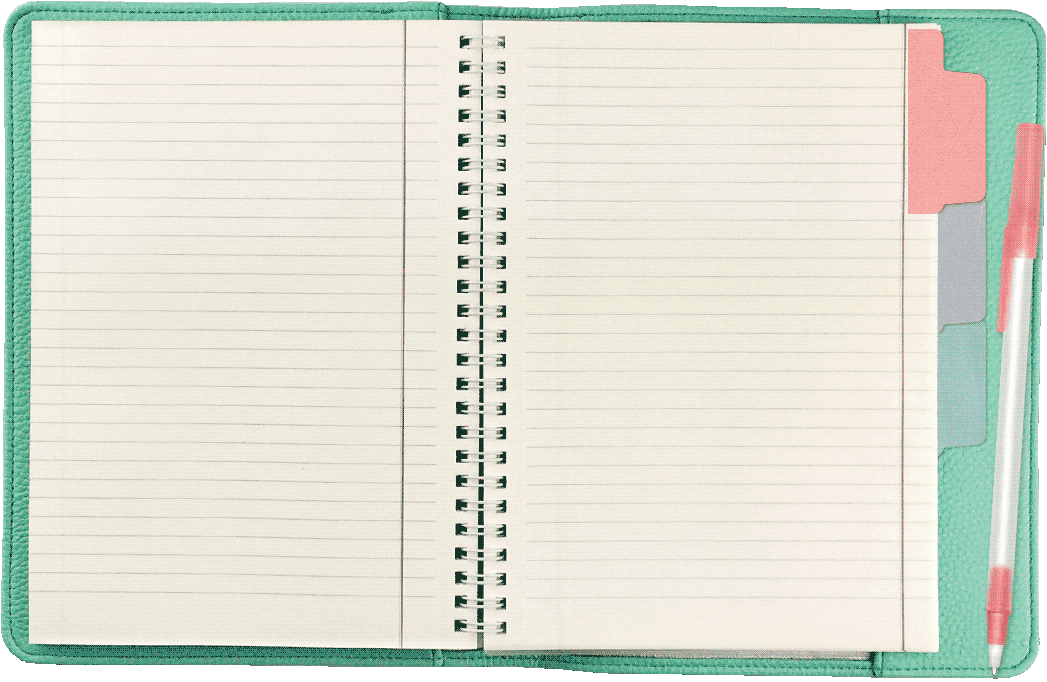
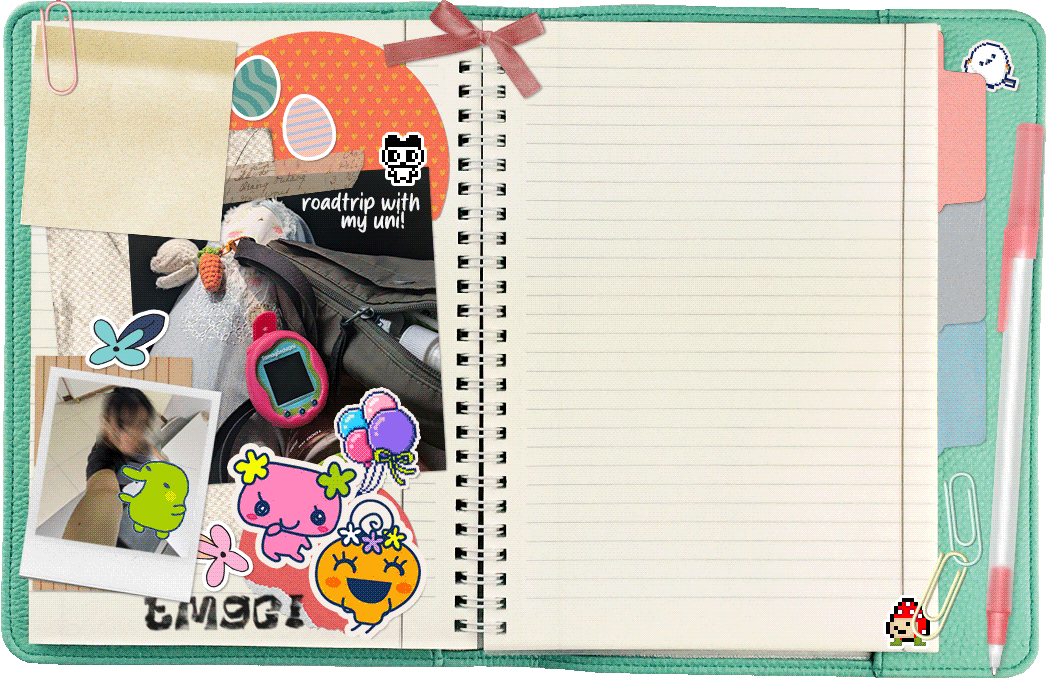
Upload tamagotchi shrine

diff --git a/precipice/tamagotchi/index.html b/precipice/tamagotchi/index.html
@@ -1,0 +1,105 @@
+<!DOCTYPE html>
+<html lang="en">
+  <head>
+    <meta charset="UTF-8">
+    <meta name="viewport" content="width=device-width, initial-scale=1.0">
+	<meta name="robots" content="noai, noimageai">
+	<title>a little tamagotchi shrine!</title>
+	
+	<link rel="apple-touch-icon" sizes="180x180" href="/precipice/favicon/apple-touch-icon.png">
+	<link rel="icon" type="image/png" sizes="32x32" href="/precipice/favicon/favicon-32x32.png">
+	<link rel="icon" type="image/png" sizes="16x16" href="/precipice/favicon/favicon-16x16.png">
+	<link rel="manifest" href="/site.webmanifest">
+	<link href="tama.css" rel="stylesheet" type="text/css" media="all">
+	
+	<style>
+	body { height: 95vh; color: #222; display: flex; flex-direction: column; justify-content: center; align-items: center; background-image:url(graph-paper.png); }
+	
+	.wrapper { position: relative; max-width:1047px; width: 100%; }
+	.decor-wrapper { position: absolute; width: 100%; height: 100%; overflow: hidden; z-index: -1; }
+	.sparkles { position: fixed; background-image:url(sparkles.png); width: 500px; height: 478px; filter: drop-shadow(rgba(0, 0, 0, 0.4) 1px 1px 1px); background-repeat: no-repeat; }
+	.rotated { rotate: 65deg; right: 0px; bottom: 0px; }
+	.background { filter: drop-shadow(rgba(0, 0, 0, 0.3) 4px 4px 4px); width: 100%; height: auto; }
+	
+	.nav {
+		font-family:'Sunbright', monospace;
+		font-size: 20pt;
+		text-align: center;
+		rotate: 90deg;
+		z-index:2;
+		position: absolute; 
+		left: 86.3%;
+		width: 11%;
+		height: 6%;
+		color: #000;
+		text-decoration:none;
+	}
+	
+	.nav:hover { text-shadow: 3px 3px 1px #fae79f; }
+	.nav-one:hover { rotate: 94deg; }
+	.nav-two:hover { rotate: 84deg; }
+	.nav-three:hover { rotate: 93deg; }
+	
+	.frame { box-sizing: border-box; position: absolute; left: 50%; top: 4.5%; width: 37.01%; height: 82%; z-index: 2; border: 0px; padding: 8px; }
+	.current { position: absolute; left: 50%; top: 87.5%; width: 35%; height: 5%; z-index: 2; display: flex; justify-content: space-evenly; align-items: center; }
+	.tablet-notice { display: none; width: 70%; background: #fff; padding: 3px; }
+	.mobile { display: none; }
+	
+	.post-it { box-sizing: border-box; position: absolute; left: 2.7%; top: 5%; width: 19%; height: 29%; rotate:4.7deg; z-index: 2; }
+	.post-text { height: 62%; scrollbar-width: thin; overflow-y:auto; padding: 10px; }
+	.post-it > h1 { font-family:'Sunbright',monospace; padding-right: 15px; margin-bottom: 5px; margin-top: 10px; border: 0px; }
+	
+	/* Use a media query to add a break point at 799px: */
+	@media screen and (max-width: 799px) {
+		.desktop { display: none; }
+		.mobile { display: unset; }
+		
+		.nav {
+		font-size: 17pt;
+		left: 81%;
+		width: 21%;
+		height: 5.9%;
+		color: #000;
+		text-decoration:none;
+		}
+		
+		.frame { left: 8%; top: 4.5%; width: 73.67%; height: 82%; }
+		.current { left: 8%; top: 87.5%; width: 68.5%; }
+	}
+	
+	/* Use a media query to target between 599px and 799px (tablets): */
+	@media screen and (min-width: 599px) and (max-width: 799px) {
+		.tablet-notice { display: unset; }
+	}
+	</style>
+	<script src="/scripts/frame-link.js"></script>
+  </head>
+  <body>
+    <div class="wrapper">
+	 <img src="notebook.png" class="background desktop" alt="">
+	 <img src="notebook-res2.png" class="background mobile" alt="">
+	 <div class="post-it desktop">
+	 <h1>updates!</h1>
+	 <div class="post-text">
+	 <b>24/09/03:</b> Added my tama info and published page :)<br>
+	 <b>24/09/03:</b> Created this new tamagotchi shrine!
+	 </div>
+	 </div>
+	 <iframe class="frame" src="home.html" id="mainframe" name="mainframe" title="main content"></iframe>
+	 <a href="owned.html" target="mainframe" class="nav nav-one" style="top: 17%;">owned ></a>
+	 <a href="raised.html" target="mainframe" class="nav nav-two" style="top: 35.7%;">raised!</a>
+	 <a href="wishlist.html" target="mainframe" class="nav nav-three" style="top: 53%;">wishlist</a>
+	 
+	 <div class="current">
+	 <b>currently playing:</b> tamagotchi uni
+	 </div>
+    </div>
+	<div class="tablet-notice">if you're currently using a tablet in portrait mode, I recommend turning it landscape wise to view this site!</div>
+ 
+    <div class="decor-wrapper">
+	 <div class="sparkles"></div>
+	 <div class="sparkles rotated"></div>
+   </div>
+  </body>
+</html>
+    

diff --git a/precipice/tamagotchi/owned.html b/precipice/tamagotchi/owned.html
@@ -1,0 +1,55 @@
+<!DOCTYPE html>
+<html lang="en">
+  <head>
+    <meta charset="UTF-8">
+    <meta name="viewport" content="width=device-width, initial-scale=1.0">
+	<meta name="robots" content="noai, noimageai">
+	<title>a little tamagotchi shrine! - owned</title>
+	
+	<link rel="apple-touch-icon" sizes="180x180" href="/precipice/favicon/apple-touch-icon.png">
+	<link rel="icon" type="image/png" sizes="32x32" href="/precipice/favicon/favicon-32x32.png">
+	<link rel="icon" type="image/png" sizes="16x16" href="/precipice/favicon/favicon-16x16.png">
+	<link rel="manifest" href="/site.webmanifest">
+	<link href="tama.css" rel="stylesheet" type="text/css" media="all">
+	
+  </head>
+  <body>
+	<section>
+	<h1>my devices</h1>
+	<h2 class="h2-first" id="five">connection v5</h2>
+	<div class="device left">
+	<img src="devices/v5.png" alt="My pink Familitchi device, yellowed with age.">
+	</div>
+	<p>My first Tamagotchi was a pink Connection V5 (Familitchi) that was gifted to me secondhand. This was maybe in 2010 or so, but I don't have an exact year I can pinpoint. I remember not knowing at all what a Tamagotchi was, but having been gifted it by my brother's ex-girlfriend on a trip out to the Science Centre, I was definitely excited. I can't remember if I'd taken it out to play then and there, or if I'd held on to it, high with anticipation, the entire train ride home.</p>
+	
+	<p>On this version, you'd raise a family of 3 children! You can choose to have one of them marry after they all grow into adults, and your choices for marriage as well as care will affect the "type" of family you have.</p>
+	
+	<p>The memory that stands out to me most about the Familitchi was being able to log onto the computer, go on the website (TAMA & Earth Expo) and play games to win points gotchi points or prizes. You'd get a code at the end of your time on the website and key it into the device to receive your winnings. But reading the wiki page on the local games available on the device also brings back memories of playing them!</p>
+	
+	<p>I don't recall when I'd stopped playing it, but I remember picking it back up maybe a few years ago? Not for long though, but I still kept the tamagotchi after all these years and I'm glad I did! I'd love to someday play it again, and maybe see if there are fan versions of TAMA & Earth Expo that I can still play on.</p>
+	
+	<h2 id="uni">uni</h2>
+	<div class="device right">
+	<img src="devices/uni.png" alt="My Tamagotchi uni in rose gold.">
+	</div>
+	<p>In August 2024, after rediscovering Tamagotchis (and realizing people still played it!), I bought my second device, the Uni. Prior to purchase I'd read up on the device and watched a few review videos about me. I'll be honest and say that what sold me on it was the walking feature! As someone who enjoys taking walks, I thought this was a lovely feature that meshed well with my own habits.</p>
+	
+	<p>What surprised me was how low-maintenance this device was, and as a working adult I do appreciate the sitter so much! Sometimes I'm just low on energy, or wish to focus on my work, and being able to put my tamas with a sitter is a well-appreciated feature.</p>
+	
+	<p>I also like being able to decorate the main room as well as dress up your tamas: it gives so much unique personality to them because of the number of permutations possible. Although some items and accessories are time-limited or region-exclusive, I actually find that I don't mind it that much, surprisingly! It's nice that you can still get some of the accessories through the Tama Fashion store on the TamaVerse.</p>
+	
+	<p>I do wish that there were more games to play on the device! I hope they someday add more in; although there are new activities through the Tama Arena or through DLCs, it would be nice to have some of them become a permanent game on the base device itself.</p>
+	
+	</section>
+	<div class="bottom-wrapper">
+	<a href="home.html" class="bottom-nav">← back</a>
+	<details><summary class="bottom-nav">★ subsections</summary>
+	<div class="bottom-det">
+	<a href="#five" class="bottom-nav">connection v5</a>
+	<a href="#uni" class="bottom-nav">uni</a>
+	</div>
+	</details>
+	<a href="#top" class="bottom-nav">↑ top</a>
+	</div>  </body>
+</html>
+    

diff --git a/precipice/tamagotchi/raised.html b/precipice/tamagotchi/raised.html
@@ -1,0 +1,86 @@
+<!DOCTYPE html>
+<html lang="en">
+  <head>
+    <meta charset="UTF-8">
+    <meta name="viewport" content="width=device-width, initial-scale=1.0">
+	<meta name="robots" content="noai, noimageai">
+	<title>a little tamagotchi shrine! - raised</title>
+	
+	<link rel="apple-touch-icon" sizes="180x180" href="/precipice/favicon/apple-touch-icon.png">
+	<link rel="icon" type="image/png" sizes="32x32" href="/precipice/favicon/favicon-32x32.png">
+	<link rel="icon" type="image/png" sizes="16x16" href="/precipice/favicon/favicon-16x16.png">
+	<link rel="manifest" href="/site.webmanifest">
+	<link href="tama.css" rel="stylesheet" type="text/css" media="all">
+	
+  </head>
+  <body>
+	<section>
+	<h1>tamas I've raised</h1>
+	<h2 class="h2-first" id="uni">uni</h2>
+	<p>These are the sprites of all the characters I've raised on my uni! My goal is to collect all possible characters, including those in the DLCs at some stage.</p>
+	<div class="sprites-wrapper">
+	<div>
+	<h3>Baby</h3>
+		<img class="sprites" src="tamas/NiinitchiUni.png" alt="Niinitchi" title="Niinitchi">
+		<img class="sprites" src="tamas/YooyutchiUni.png" alt="Yooyutchi" title="Yooyutchi">
+	</div>
+	<div>
+	<h3>Child</h3>
+		<img class="sprites" src="tamas/LionetchiUni.png" alt="Lionetchi" title="Lionetchi">
+		<img class="sprites" src="tamas/WelcotchiUni.png" alt="Welcotchi" title="Welcotchi">
+	</div>
+	<div>
+	<h3>Teens</h3>
+		<img class="sprites" src="tamas/LabilatchiUni.png" alt="Labilatchi" title=="Labilatchi">
+		<img class="sprites" src="tamas/CurltchiUni.png" alt="Curltchi" title="Curltchi">
+	</div>
+	<div>
+	<h3>Adults</h3>
+		<img class="sprites" src="tamas/KikitchiUni.png" alt="Kikitchi" title="Kikitchi">
+		<img class="sprites" src="tamas/NeliatchiUni.png" alt="Neliatchi" title="Neliatchi">
+	</div>
+	</div>
+	<p>On the Uni, each tama also comes with a personality as well as the ability to accessorize them. This allows for a much more unique range of tamas to each player. You can see each of my past tamas and their details under the read more.</p>
+	
+	<details><summary>Read more!</summary>
+	
+	<div class="tama-listing">
+	  <img class="sprites" src="tamas/adult-Neliatchi.png" alt="Neliatchi" title="Neliatchi">
+	  <div>
+	  <b>Neliatchi</b><br><i>Timid</i><br>
+	  <i>Favourite item:</i> Stuffed Animal
+	  <br><br>
+	  <details><summary>My thoughts</summary>
+	  My first child on the uni, I fell in love with her!! I actually initially didn't like her design but seeing her with her shy animations changed my heart.</p>
+	  </details>
+	  </div>
+	</div>
+	
+	<div class="tama-listing">
+	  <img class="sprites" src="tamas/adult-Kikitchi.png" alt="Kikitchi" title="Kikitchi">
+	  <div>
+	  <b>Kikitchi</b><br><i>Polite</i><br>
+	  <i>Favourite item:</i> Sauna Stove
+	  <br><br>
+	  <details><summary>My thoughts</summary>
+	  He's so stinkin' cute in his little tiara, pink bow and purple balloons! I'm not sure why he always cries when he's outside in the rain... maybe he's a lil sensitive soul.</p>
+	  </details>
+	  </div>
+	</div>
+	
+	</details>
+	<br><br>
+	
+	</section>
+	<div class="bottom-wrapper">
+	<a href="home.html" class="bottom-nav">← back</a>
+	<details><summary class="bottom-nav">★ subsections</summary>
+	<div class="bottom-det">
+	<a href="#uni" class="bottom-nav">tamagotchi uni</a>
+	</div>
+	</details>
+	<a href="#top" class="bottom-nav">↑ top</a>
+	</div>
+  </body>
+</html>
+    

diff --git a/precipice/tamagotchi/tama.css b/precipice/tamagotchi/tama.css
@@ -1,0 +1,41 @@
+@font-face {font-family:'Sunbright'; src:url(/fonts/Sunbright.otf) format('opentype'); font-weight: normal; font-style: normal; }
+
+body { font-family: monospace; }
+
+h1 { text-align: right; margin-top: 5px; padding-right: 5px; border-bottom: 2px dotted; text-shadow: 2px 2px 1px #ffb4a5; }
+h2 { padding-right: 10px; text-align: right; line-height: 50%; background-color: #fff; font-style: italic; font-weight: 400; border-right: 10px solid; text-shadow: 2px 2px 1px #b0bacd; }
+.h2-first { margin-top: -10px; }
+p { line-height: 150%; }
+
+.sprites-wrapper { display: flex; flex-wrap: wrap; margin-bottom: 20px; }
+.sprites-wrapper > div { flex: 50%; }
+.sprites { image-rendering: pixelated; }
+.sprites:hover { filter: drop-shadow(0 0 5px #ffb4a5); cursor: crosshair; }
+
+.tama-listing { box-sizing: border-box; display: inline-grid; grid-template-columns: 80px auto; margin: 10px; padding: 10px; border: 1px dashed; width: 95%; }
+
+.device { position: relative; margin: 10px; }
+.device > img { box-shadow: 1px 1px 1px #aaa; }
+.device:before {
+    content: "";
+    height: 20px;
+    width: 60px;
+    position: absolute;
+    top: 0px;
+    left: 0px;
+    background-color: rgba(213, 203, 174, 0.4);
+	box-shadow: 0px 1px 1px #ccc;
+	transform:rotate(-10deg) translateY(-5px) translateX(50px);
+}
+.left { float: left; }
+.right { float: right; }
+
+.bottom-wrapper { position: fixed; padding: 15px 0px 1px 0px; bottom: 0px; width: 96%; display: flex; justify-content: space-between; background: rgb(238,238,221); background: linear-gradient(0deg, rgba(238,238,221,1) 75%, rgba(238,238,221,0) 100%); }
+.bottom-nav { margin-top: 5px; text-decoration: none; color: #000; border: 1px solid; padding: 5px; cursor: pointer; transition: 0.2s; display: inline-block; }
+.bottom-nav:hover, .bottom-nav > details[open] > summary { background: #000; color: #fff; border: 1px solid #000; }
+.bottom-nav > summary { list-style-type: none; }
+.bottom-det { overflow-y: auto; padding: 5px 10px 10px 10px; max-height: 50%; width: 60%; position: fixed; bottom: 50px; left: 20%; z-index: 2; border: 1px solid; background:#eeeedd; scrollbar-width:thin; }
+section { padding-bottom: 30px; }
+
+.navigate-back { text-align: center; margin-bottom: 15px; }
+summary { cursor: pointer; }

diff --git a/precipice/tamagotchi/home.html b/precipice/tamagotchi/home.html
@@ -1,0 +1,43 @@
+<!DOCTYPE html>
+<html lang="en">
+  <head>
+    <meta charset="UTF-8">
+    <meta name="viewport" content="width=device-width, initial-scale=1.0">
+	<meta name="robots" content="noai, noimageai">
+	<title>a little tamagotchi shrine!</title>
+	
+	<link rel="apple-touch-icon" sizes="180x180" href="/precipice/favicon/apple-touch-icon.png">
+	<link rel="icon" type="image/png" sizes="32x32" href="/precipice/favicon/favicon-32x32.png">
+	<link rel="icon" type="image/png" sizes="16x16" href="/precipice/favicon/favicon-16x16.png">
+	<link rel="manifest" href="/site.webmanifest">
+	<link href="tama.css" rel="stylesheet" type="text/css" media="all">
+	
+  </head>
+  <body>
+	 <h1>welcome</h1>
+	 <div class="navigate-back"><a href="/precipice">← back to the home page & navigation?</a></div>
+	 
+	 <p>Welcome to my humble shrine for tamagotchi! As a baby fan, there might not be much at the moment, but I still hope you enjoy what I have here.</p>
+	 <p style="border: 1px solid; padding: 8px; font-weight: 600; text-align:center;">Please navigate using the tabs on the right!</p>
+	 <p>If there are accessibility issues, you may also navigate with the following:</p>
+	 <ul>
+	 <li><a href="owned.html">Owned</a> — the tamagotchi devices I own</li>
+	 <li><a href="raised.html">Raised</a> — the tamagotchi I've raised</li>
+	 <li><a href="wishlist.html">Wishlist</a> — the tamagotchi devices on my wishlist</li>
+	 </ul>
+	 
+	 <h1>thanks</h1>
+	 <p>Credits for this page:</p>
+	 <ul>
+		<li><a href="https://www.pngwing.com/en/free-png-bzmob/download">PNGwing</a> for the mint notebook</li>
+		<li>ShabbyPrincess (now gone) for the the pen and paper clip elements</li>
+		<li><a href="https://www.digitalscrapbook.com/">DigitalScrapbook</a> for other elements (sparkles, bow, sticky note and paper textures)</li>
+		<li><a href="https://tamagotchi.fandom.com">Tamagotchi Fandom</a> for the character sprites and art</li>
+		<li><a href="https://uni.studded.net/">Uni sizetchi</a> to clean up the screenshots from my uni</li>
+		<li><a href="https://accessun.github.io/2016/10/16/Make-a-Tape-Photo-by-CSS/">Accessun's tutorial</a> for CSS tape</li>
+	</ul>
+	<p>All other pictures are mine.</p>
+	<br>
+  </body>
+</html>
+    

diff --git a/precipice/tamagotchi/wishlist.html b/precipice/tamagotchi/wishlist.html
@@ -1,0 +1,32 @@
+<!DOCTYPE html>
+<html lang="en">
+  <head>
+    <meta charset="UTF-8">
+    <meta name="viewport" content="width=device-width, initial-scale=1.0">
+	<meta name="robots" content="noai, noimageai">
+	<title>a little tamagotchi shrine! - wishlist</title>
+	
+	<link rel="apple-touch-icon" sizes="180x180" href="/precipice/favicon/apple-touch-icon.png">
+	<link rel="icon" type="image/png" sizes="32x32" href="/precipice/favicon/favicon-32x32.png">
+	<link rel="icon" type="image/png" sizes="16x16" href="/precipice/favicon/favicon-16x16.png">
+	<link rel="manifest" href="/site.webmanifest">
+	<link href="tama.css" rel="stylesheet" type="text/css" media="all">
+	
+  </head>
+  <body>
+	<section>
+	<h1>wishlist</h1>
+	<h2 class="h2-first" id="meets">on/some/meets</h2>
+	<p>I really want to try the gene mixing! I don't have a particular shell version I want; I just want it at a decent price! The Sanrio meets one is so pretty, but unfortunately I don't think the prices are worth it at all.</p>
+	
+	<h2 id="pix">pix</h2>
+	<p>The pix looks like it has so many fun features, but I'm going to have to watch more videos on it first before deciding. I'm thinking it's probably best to get it while it's not too old yet to avoid wild resale prices!</p>
+	
+	</section>
+	<div class="bottom-wrapper">
+	<a href="home.html" class="bottom-nav">← back</a>
+	<a href="#top" class="bottom-nav">↑ top</a>
+	</div>
+  </body>
+</html>
+    

diff --git a/precipice/index.html b/precipice/index.html
@@ -149,6 +149,7 @@
 	  <a href="/precipice/pens">pen collection</a>
 	  <a href="/precipice/sewing">sewing room</a>
 	  <a href="/precipice/sundaysites">sunday sites</a>
+	  <a href="/precipice/tamagotchi">tamagotchi</a>
 	  <a href="/precipice/toybox">toybox</a>
 	  <a href="#sitemap">sitemap</a>
 	  </div>
@@ -195,7 +196,7 @@
 	  <span class="subcategory">Shrines and collections</span>
 	  <ul class="sublist hoverable">
 		<li><a href="/precipice/pens">Pen collection</a> — display of my pen collection.</li>
-		<li>Tamagotchi — page for my tamagotchis. [Under construction.]</li>
+		<li><a href="/precipice/tamagotchi">Tamagotchi</a> — page for my tamagotchis. [Under construction.]</li>
 		<li><a href="/precipice/toybox">Toybox</a> — my adoptables (pixel or not), including pixel cliques. *</li>
 		<li><a href="/precipice/sewing">Sewing room</a> — my sewing. *</li>
 	  </ul>
